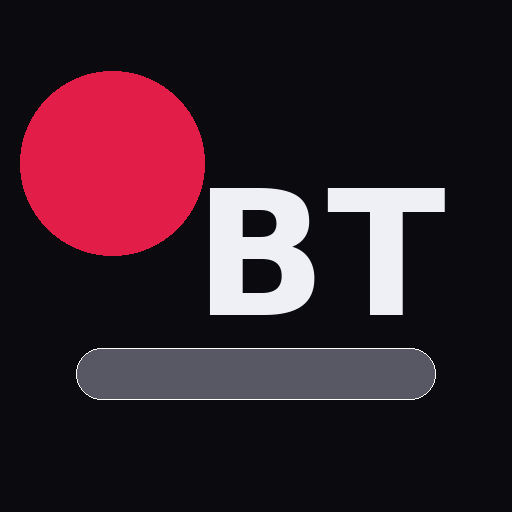
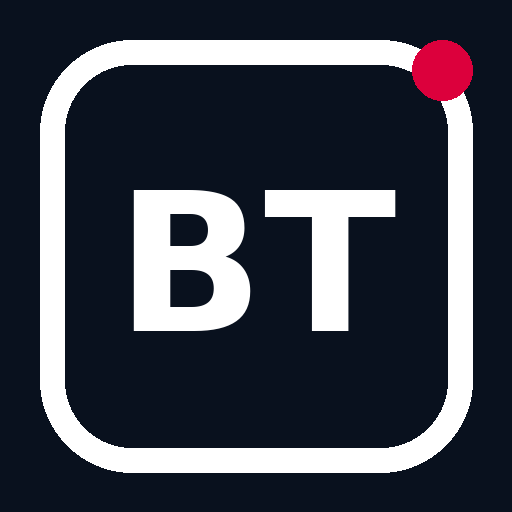
Add files via upload

diff --git a/index.html b/index.html
@@ -6,6 +6,10 @@
     <meta name="description" content="Bolo Tracker v7.1 (Drive JSON Sync) - Control de horas trabajadas con jornadas extra y facturación">
     <meta name="theme-color" content="#208090">
     <title>Bolo Tracker v7.1 (Drive JSON Sync)</title>
+  <link rel="manifest" href="./manifest.webmanifest">
+  <meta name="theme-color" content="#0a0a0f">
+  <link rel="icon" href="./icons/icon-192.png">
+
     <style>
         :root {
             --color-primary: #208090;
@@ -536,29 +540,86 @@
                 margin-bottom: var(--spacing-sm);
             }
         }
-    
-                .supabase-controls{display:inline-flex;gap:8px;align-items:center;margin-left:8px;flex-wrap:wrap}
-                .badge{display:inline-flex;align-items:center;padding:6px 10px;border:1px solid rgba(255,255,255,.18);border-radius:999px;font-size:12px;background:rgba(0,0,0,.18)}
-                .badge.muted{opacity:.75}
-                .auth-modal{max-width:520px}
-                .auth-error{background:rgba(255,0,0,.12);border:1px solid rgba(255,0,0,.25);padding:10px 12px;border-radius:10px;margin-bottom:10px}
-                .divider{height:1px;background:rgba(255,255,255,.12);margin:14px 0}
-                .hint{font-size:12px;opacity:.8;margin-top:8px}
-                .btn.google{background:linear-gradient(135deg,#db4437,#4285f4);border:0;color:#fff}
-
-            </style>
-
-    <meta name="theme-color" content="#0aa0b0">
-    <link rel="manifest" href="./manifest.webmanifest">
-    <link rel="icon" href="./icons/icon-192.png" sizes="192x192">
-    <link rel="apple-touch-icon" href="./icons/icon-192.png">
-
+    </style>
 </head>
 <body>
+
+<div id="authOverlay" style="position:fixed;inset:0;display:none;align-items:center;justify-content:center;background:rgba(0,0,0,.75);backdrop-filter:blur(6px);z-index:99999;">
+  <div style="width:min(520px,92vw);background:#0f1320;border:1px solid rgba(255,255,255,.12);border-radius:16px;padding:18px 18px 14px;box-shadow:0 12px 40px rgba(0,0,0,.45);color:#fff;">
+    <div style="display:flex;align-items:center;justify-content:space-between;gap:12px;">
+      <div style="font-weight:700;font-size:18px;">Acceso</div>
+      <div id="authStatusPill" style="font-size:12px;padding:4px 10px;border-radius:999px;background:rgba(255,255,255,.08);border:1px solid rgba(255,255,255,.10);">Supabase</div>
+    </div>
+    <div style="margin-top:8px;color:rgba(255,255,255,.75);font-size:13px;line-height:1.35;">
+      Inicia sesión para sincronizar tus bolos entre móvil y PC (RLS por usuario).
+    </div>
+    <div style="display:grid;grid-template-columns:1fr;gap:10px;margin-top:12px;">
+      <label style="font-size:12px;color:rgba(255,255,255,.7);">Email
+        <input id="authEmail" type="email" autocomplete="email" style="width:100%;margin-top:6px;padding:10px 12px;border-radius:12px;border:1px solid rgba(255,255,255,.12);background:#0b0f1a;color:#fff;outline:none;">
+      </label>
+      <label style="font-size:12px;color:rgba(255,255,255,.7);">Contraseña
+        <input id="authPass" type="password" autocomplete="current-password" style="width:100%;margin-top:6px;padding:10px 12px;border-radius:12px;border:1px solid rgba(255,255,255,.12);background:#0b0f1a;color:#fff;outline:none;">
+      </label>
+      <div style="display:flex;gap:10px;flex-wrap:wrap;align-items:center;margin-top:2px;">
+        <button id="btnLogin" type="button" style="padding:10px 14px;border-radius:12px;border:0;background:#e11d48;color:#fff;font-weight:700;cursor:pointer;">Entrar</button>
+        <button id="btnSignup" type="button" style="padding:10px 14px;border-radius:12px;border:1px solid rgba(255,255,255,.14);background:transparent;color:#fff;font-weight:600;cursor:pointer;">Crear cuenta</button>
+        <button id="btnOffline" type="button" style="margin-left:auto;padding:10px 14px;border-radius:12px;border:1px solid rgba(255,255,255,.14);background:transparent;color:rgba(255,255,255,.8);cursor:pointer;">Entrar sin sync</button>
+      </div>
+      <div id="authMsg" style="min-height:18px;color:#ffb4b4;font-size:12px;"></div>
+    </div>
+  </div>
+</div>
+
     <div id="root"></div>
     <input id="importJsonInput" type="file" accept="application/json" style="display:none" />
 
-    <script type="module">
+    
+<script type="module">
+  import { createClient } from "https://cdn.jsdelivr.net/npm/@supabase/supabase-js@2/+esm";
+  import { SUPABASE_URL, SUPABASE_ANON_KEY } from "./supabase-config.js";
+
+  const client = createClient(SUPABASE_URL, SUPABASE_ANON_KEY);
+
+  window.supa = {
+    client,
+    async getSession() {
+      const { data, error } = await client.auth.getSession();
+      if (error) throw error;
+      return data.session;
+    },
+    onAuth(cb) {
+      return client.auth.onAuthStateChange((_event, session) => cb(session));
+    },
+    async signInEmail(email, password) {
+      return client.auth.signInWithPassword({ email, password });
+    },
+    async signUpEmail(email, password) {
+      return client.auth.signUp({ email, password });
+    },
+    async signOut() {
+      return client.auth.signOut();
+    },
+    async loadState(userId) {
+      const { data, error } = await client
+        .from("bolo_tracker_state")
+        .select("state_json, updated_at")
+        .eq("user_id", userId)
+        .maybeSingle();
+      if (error) throw error;
+      return data?.state_json || null;
+    },
+    async saveState(userId, stateJson) {
+      const { error } = await client
+        .from("bolo_tracker_state")
+        .upsert({ user_id: userId, state_json: stateJson }, { onConflict: "user_id" });
+      if (error) throw error;
+    }
+  };
+
+  window.dispatchEvent(new Event("supa-ready"));
+</script>
+
+<script>
         // ============================================================================
         // ESTADO Y PERSISTENCIA
         // ============================================================================
@@ -858,14 +919,11 @@
                         <h1>🏗 Bolo Tracker v7.1 (Drive JSON Sync)</h1>
                         <p>Control inteligente de horas, jornadas extra y facturación</p>
                         <div class="header-actions">
-                        <button class="btn primary" onclick="app.openBoloModal()">✨ Crear Nuevo Bolo</button>
-                        <button class="btn secondary" onclick="app.toggleStats()">📊 Estadísticas</button>
-                        <button class="btn secondary" onclick="app.exportJson()">⬇ Exportar JSON</button>
-                        <button class="btn secondary" onclick="document.getElementById('importJsonInput').click()">⬆ Importar JSON</button>
-
-                        <!-- Supabase (opcional) -->
-                        ${app.renderSupabaseControls()}
-                    </div>
+                            <button class="btn btn-primary" onclick="app.openBoloModal()">✨ Crear Nuevo Bolo</button>
+                            <button class="btn btn-outline" onclick="app.switchTab('estadisticas')">📊 Estadísticas</button>
+                            <button class="btn btn-outline" onclick="app.exportJSON()">⬇ Exportar JSON</button>
+                            <button class="btn btn-outline" onclick="app.importJSON()">⬆ Importar JSON</button>
+                        </div>
                     </div>
                     <button class="theme-toggle" onclick="app.toggleTheme()" title="Cambiar tema">
                         ${state.theme === 'light' ? '🌙 Dark' : '☀ Light'}
@@ -1060,7 +1118,6 @@
                         <button class="btn btn-outline" onclick="app.exportBoloCSV(${boloId})">📥 Descargar CSV</button>
                     </div>
                 </div>
-                ${app.renderAuthModal()}
             `;
 
             const root = document.getElementById('root');
@@ -1284,7 +1341,6 @@
             init() {
                 storage.loadState();
                 theme.init();
-                supa.init();
 
                 const input = document.getElementById('importJsonInput');
                 if (input && !input._boloBound) {
@@ -1685,8 +1741,109 @@
             }
         };
 
-        document.addEventListener('DOMContentLoaded', () => {
-            app.init();
+        
+document.addEventListener('DOMContentLoaded', async () => {
+  // Service Worker (PWA)
+  if ("serviceWorker" in navigator) {
+    try { await navigator.serviceWorker.register("./sw.js"); } catch (e) { /* ignore */ }
+  }
+
+  // Espera a supabase (si falla, entra en modo local)
+  const waitSupa = () => new Promise((res) => {
+    if (window.supa) return res();
+    window.addEventListener("supa-ready", () => res(), { once: true });
+    setTimeout(() => res(), 2000); // fallback
+  });
+  await waitSupa();
+
+  const overlay = document.getElementById("authOverlay");
+  const msg = document.getElementById("authMsg");
+  const emailEl = document.getElementById("authEmail");
+  const passEl = document.getElementById("authPass");
+
+  async function startApp() {
+    overlay.style.display = "none";
+    app.init();
+  }
+
+  // Si no hay supabase cargado -> local
+  if (!window.supa) {
+    await startApp();
+    return;
+  }
+
+  async function hydrateFromRemote(userId) {
+    try {
+      const remote = await window.supa.loadState(userId);
+      if (remote && typeof remote === "string") {
+        localStorage.setItem("boloTrackerState", remote);
+      }
+    } catch (e) {
+      console.warn("No se pudo cargar estado remoto:", e);
+    }
+  }
+
+  // Patch: al guardar estado local, sincroniza (sin cambiar estructura)
+  const __origSaveState = storage.saveState.bind(storage);
+  storage.saveState = function patchedSaveState() {
+    __origSaveState();
+    __supaSyncDebounced();
+  };
+
+  const session = await window.supa.getSession();
+  if (session?.user?.id) {
+    __supaUserId = session.user.id;
+    await hydrateFromRemote(__supaUserId);
+    await startApp();
+    return;
+  }
+
+  // Login UI
+  overlay.style.display = "flex";
+
+  function setMsg(t, isError=true) {
+    msg.style.color = isError ? "#ffb4b4" : "#b4ffd4";
+    msg.textContent = t || "";
+  }
+
+  async function doLogin(isSignup=false) {
+    setMsg("");
+    const email = (emailEl.value || "").trim();
+    const password = passEl.value || "";
+    if (!email || !password) { setMsg("Rellena email y contraseña."); return; }
+    try {
+      const { data, error } = isSignup
+        ? await window.supa.signUpEmail(email, password)
+        : await window.supa.signInEmail(email, password);
+      if (error) throw error;
+      const userId = data?.user?.id || (await window.supa.getSession())?.user?.id;
+      if (!userId) {
+        setMsg("Revisa tu email si Supabase requiere confirmación antes de iniciar sesión.", false);
+        return;
+      }
+      __supaUserId = userId;
+      await hydrateFromRemote(__supaUserId);
+      setMsg("Acceso correcto.", false);
+      await startApp();
+    } catch (e) {
+      setMsg(e?.message || String(e));
+    }
+  }
+
+  document.getElementById("btnLogin").addEventListener("click", () => doLogin(false));
+  document.getElementById("btnSignup").addEventListener("click", () => doLogin(true));
+  document.getElementById("btnOffline").addEventListener("click", async () => {
+    __supaUserId = null;
+    setMsg("");
+    await startApp();
+  });
+
+  // Enter submits
+  passEl.addEventListener("keydown", (ev) => {
+    if (ev.key === "Enter") doLogin(false);
+  });
+});
+
         });
     </script>
 </body>

diff --git a/sw.js b/sw.js
@@ -1,8 +1,7 @@
-const CACHE_NAME = "bolo-tracker-v1";
+const CACHE_NAME = "bolo-tracker-v7-1-supa-pwa-v2";
 const ASSETS = [
   "./",
   "./index.html",
-  "./app.js",
   "./supabase-config.js",
   "./manifest.webmanifest",
   "./icons/icon-192.png",
@@ -20,23 +19,24 @@ self.addEventListener("install", (event) => {
 self.addEventListener("activate", (event) => {
   event.waitUntil((async () => {
     const keys = await caches.keys();
-    await Promise.all(keys.map(k => k !== CACHE_NAME ? caches.delete(k) : null));
+    await Promise.all(keys.map((k) => (k === CACHE_NAME ? null : caches.delete(k))));
     self.clients.claim();
   })());
 });
 
 self.addEventListener("fetch", (event) => {
   const req = event.request;
-  if (req.url.includes("/rest/v1/") || req.url.includes("/auth/v1/")) {
-    event.respondWith(fetch(req).catch(() => caches.match(req)));
-    return;
-  }
   event.respondWith((async () => {
-    const cached = await caches.match(req);
-    if (cached) return cached;
-    const fresh = await fetch(req);
     const cache = await caches.open(CACHE_NAME);
-    cache.put(req, fresh.clone());
-    return fresh;
+    const cached = await cache.match(req);
+    if (cached) return cached;
+    try {
+      const fresh = await fetch(req);
+      if (fresh && fresh.ok && req.method === "GET") cache.put(req, fresh.clone());
+      return fresh;
+    } catch (e) {
+      // fallback to app shell
+      return (await cache.match("./index.html")) || cached;
+    }
   })());
 });
